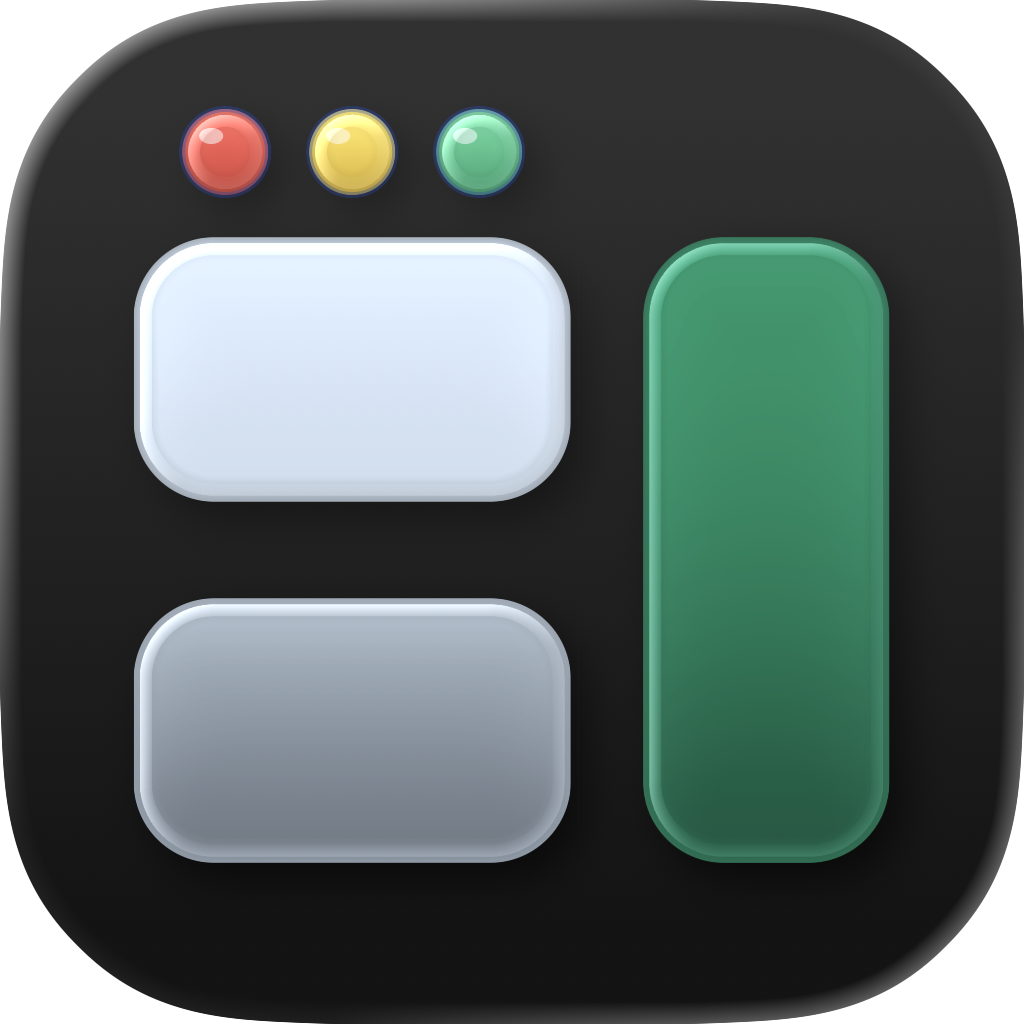
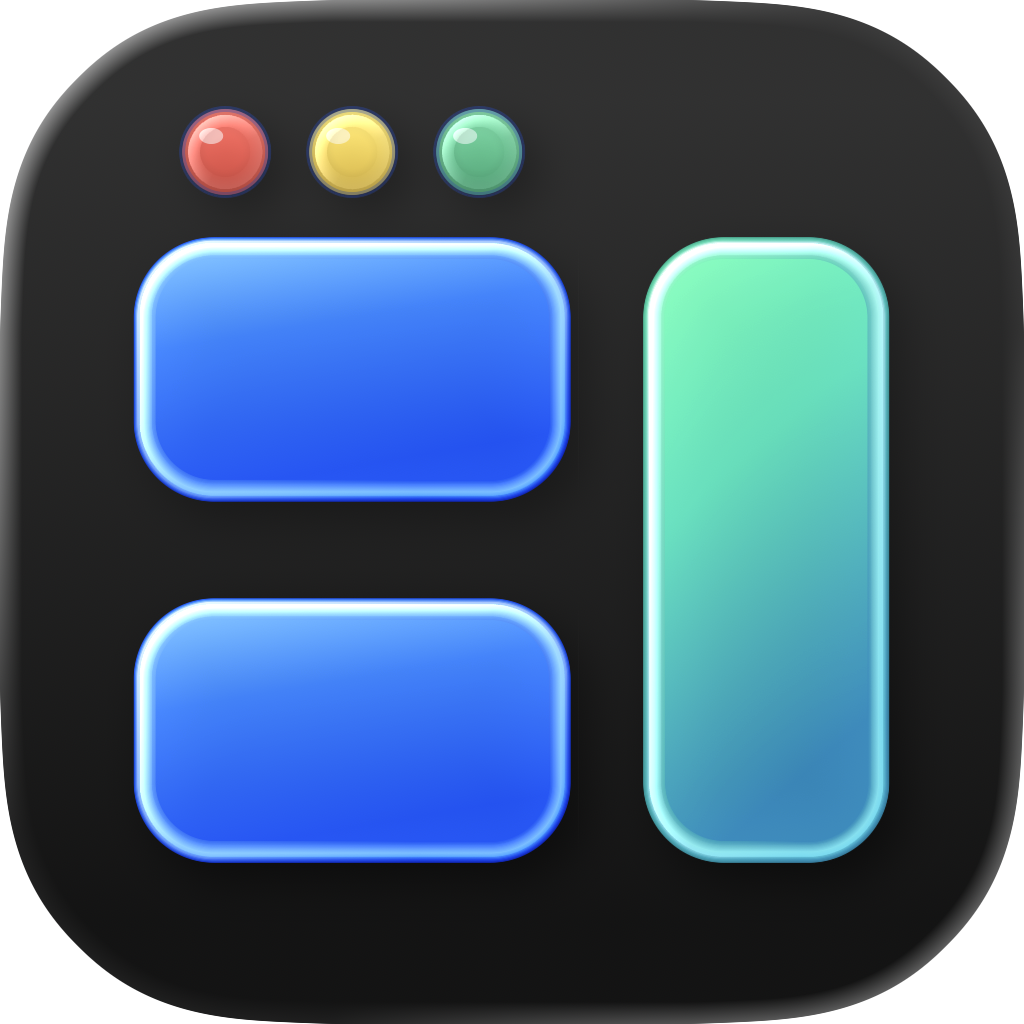
Refine Ice Blue pane colors and glossy rims without changing proportions

diff --git a/Tests/BetterTileAppTests/AppIconStyleTests.swift b/Tests/BetterTileAppTests/AppIconStyleTests.swift
@@ -17,7 +17,7 @@ import Testing
     #expect(AppIconStyle.selected(in: defaults) == .classic)
 }
 
-@Test func appIconVariantsPreserveSourceGeometryAndEffects() throws {
+@Test func appIconVariantsPreserveSourceGeometry() throws {
     let resources = URL(fileURLWithPath: #filePath)
         .deletingLastPathComponent().deletingLastPathComponent().deletingLastPathComponent()
         .appendingPathComponent("Resources")
@@ -25,23 +25,62 @@ import Testing
     func document(_ bundle: URL) throws -> [String: Any] {
         try #require(JSONSerialization.jsonObject(with: Data(contentsOf: bundle.appendingPathComponent("icon.json"))) as? [String: Any])
     }
-    var expected = try document(source)
-    expected.removeValue(forKey: "fill")
+    func geometry(_ document: [String: Any]) throws -> [String: Any] {
+        var result = document
+        result.removeValue(forKey: "fill")
+        result["groups"] = try #require(result["groups"] as? [[String: Any]]).map { group in
+            var group = group
+            group.removeValue(forKey: "shadow")
+            group.removeValue(forKey: "translucency")
+            return group
+        }
+        return result
+    }
+    func outlines(_ url: URL) throws -> [[String: String]] {
+        let svg = try XMLDocument(contentsOf: url)
+        let marked = try svg.nodes(forXPath: "//*[local-name()='rect' and contains(@id, '-outline')]")
+        let rectangles = try marked.isEmpty ? svg.nodes(forXPath: "//*[local-name()='rect']") : marked
+        return try rectangles.map { node in
+            let element = try #require(node as? XMLElement)
+            return Dictionary(uniqueKeysWithValues: try ["x", "y", "width", "height", "rx"].map { name in
+                (name, try #require(element.attribute(forName: name)?.stringValue))
+            })
+        }
+    }
+    let expected = try geometry(document(source))
     for name in ["AppIconIce", "AppIconDebug", "AppIconIceDebug"] {
         let bundle = resources.appendingPathComponent("\(name).icon")
         var actual = try document(bundle)
-        actual.removeValue(forKey: "fill")
         if name.hasSuffix("Debug") {
             var groups = try #require(actual["groups"] as? [[String: Any]])
-            #expect(groups.last?["name"] as? String == "Debug")
-            groups.removeLast()
+            let badgeIndex = try #require(groups.firstIndex { $0["name"] as? String == "Debug" })
+            if name == "AppIconIceDebug" {
+                #expect(badgeIndex == 0, "The Debug badge must be above the opaque Ice panes")
+            }
+            groups.remove(at: badgeIndex)
             actual["groups"] = groups
         }
-        #expect(NSDictionary(dictionary: actual).isEqual(to: expected), "\(name) must preserve the source layers and effects")
+        #expect(try NSDictionary(dictionary: geometry(actual)).isEqual(to: expected), "\(name) must preserve the source layers and positions")
         for file in ["00-TrafficLights.svg", "01-LeftPanes.svg", "02-RightPane.svg"] {
-            let original = try String(contentsOf: source.appendingPathComponent("Assets/\(file)"), encoding: .utf8)
-            let copy = try String(contentsOf: bundle.appendingPathComponent("Assets/\(file)"), encoding: .utf8)
-            #expect(copy == original, "\(name)/\(file) must remain an exact copy")
+            let originalURL = source.appendingPathComponent("Assets/\(file)")
+            let copyURL = bundle.appendingPathComponent("Assets/\(file)")
+            if name.contains("Ice") && file != "00-TrafficLights.svg" {
+                #expect(try outlines(copyURL) == outlines(originalURL), "\(name)/\(file) must preserve each pane outline")
+                let originalRoot = try #require(XMLDocument(contentsOf: originalURL).rootElement())
+                let copyRoot = try #require(XMLDocument(contentsOf: copyURL).rootElement())
+                for attribute in ["width", "height", "viewBox"] {
+                    #expect(copyRoot.attribute(forName: attribute)?.stringValue == originalRoot.attribute(forName: attribute)?.stringValue)
+                }
+            } else {
+                #expect(try Data(contentsOf: copyURL) == Data(contentsOf: originalURL), "\(name)/\(file) must remain an exact copy")
+            }
+        }
+        if name.hasSuffix("Debug") {
+            let base = resources.appendingPathComponent("\(name.replacingOccurrences(of: "Debug", with: "")).icon")
+            #expect(try NSDictionary(dictionary: actual).isEqual(to: document(base)), "\(name) must match its base appearance plus the Debug badge")
+            for file in ["00-TrafficLights.svg", "01-LeftPanes.svg", "02-RightPane.svg"] {
+                #expect(try Data(contentsOf: bundle.appendingPathComponent("Assets/\(file)")) == Data(contentsOf: base.appendingPathComponent("Assets/\(file)")))
+            }
         }
     }
 }

diff --git a/docs/icon-composer/README.md b/docs/icon-composer/README.md
@@ -1,13 +1,20 @@
 # App icon variants
 
 Classic uses the existing [AppIcon.icon](../../Resources/AppIcon.icon) document.
-[Ice Blue](../../Resources/AppIconIce.icon) is a copy of that document. It changes
-only the background color to ice blue. Every foreground SVG is an exact copy. The SVG geometry, layer positions, scale, groups, and Liquid Glass
-settings match the source. The Debug copies add the existing D badge.
+[Ice Blue](../../Resources/AppIconIce.icon) derives from that document. It keeps
+the pane outlines, corner radii, canvas, layer order, positions, and scale.
+It uses a pale ice background, blue left panes, and a mint-to-teal right pane.
+Inset SVG gradient contours create the thicker glossy rims inside the original
+outlines. Pane translucency and shadow strength are adjusted for these colors.
+The traffic-light SVG remains an exact copy. Each Debug copy adds the existing D
+badge. Ice Blue places that badge above its opaque panes so it stays visible.
 
 Open either `.icon` document in Apple's Icon Composer. When changing source
-geometry or effects, copy those changes into the other three documents.
-`appIconVariantsPreserveSourceGeometryAndEffects` checks that they stay aligned.
+geometry, copy those changes into the other three documents. Keep appearance
+changes aligned within each base/Debug pair. Edit the pane SVG gradients to
+adjust the Ice rim colors; Icon Composer retains the native glass and shadow
+effects. `appIconVariantsPreserveSourceGeometry` checks the outlines, canvas,
+composition, and matching Debug copies.
 
 Settings → General → Appearance has a native radio picker with both icon
 previews. Classic is the default. The local `BetterTileAppIcon` preference saves
@@ -31,7 +38,9 @@ introduced. The only new stored value is the local icon preference.
 - Native picker interaction in an isolated app using the actual picker source
   and compiled icon catalog; the running window manager was left in place.
 - Light and dark picker captures and Apple-rendered icon previews are in
-  [previews](previews). Icon exports use Icon Composer's `ictool`, macOS,
-  design generation 26. They are review images, not runtime PNG resources.
+  [previews](previews). Icon exports use Icon Composer's `ictool` for macOS.
+  Unsuffixed icon exports use design generation 26; `*-27.png` exports use
+  generation 27. The final Ice source was also opened and checked in Icon
+  Composer. These are review images, not runtime PNG resources.
 - Full-app relaunch, live Dock appearance changes, and VoiceOver traversal
   remain manual checks. These builds are unsigned and are not distributed.
